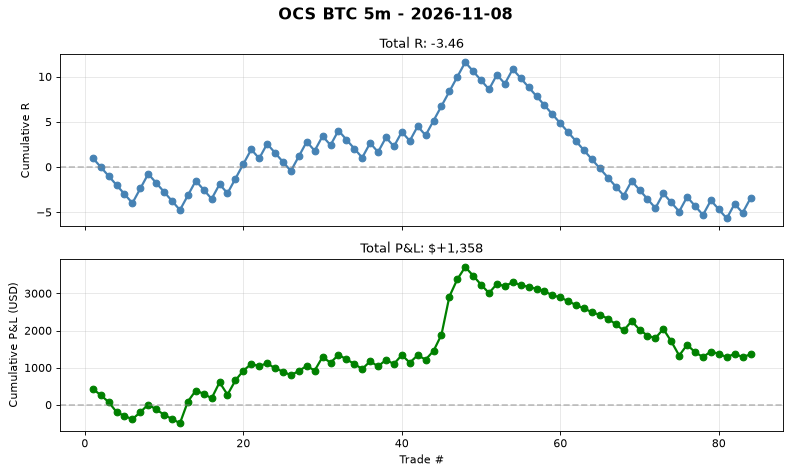
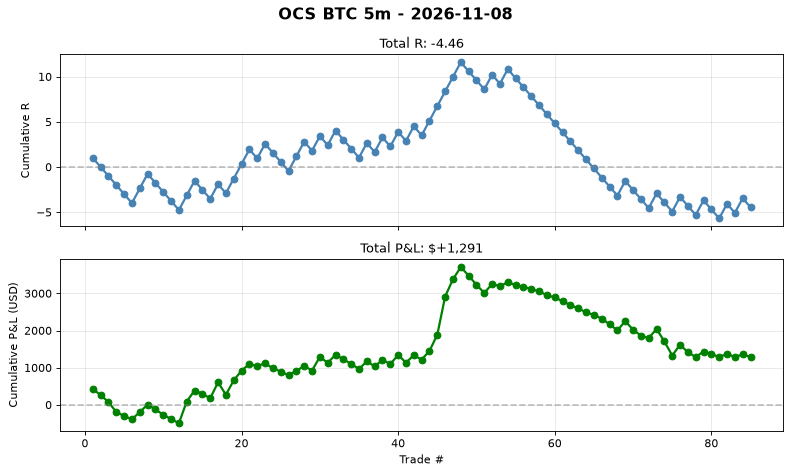
auto(ocs-btc): signal log 2026-11-08T04:34 trades=85

diff --git a/automation/reports/ocs_btc_5m/daily/2026-11-08.md b/automation/reports/ocs_btc_5m/daily/2026-11-08.md
@@ -1,5 +1,37 @@
 # OCS BTC 5m - 2026-11-08
 
-**No trades today.**
+## Summary
+- **Trades**: 1 (0W / 1L)
+- **Win Rate**: 0.0%
+- **Total R**: -1.00R
+- **Total P&L**: $-67
+- **Avg R**: -1.00R
+- **Profit Factor**: 0.92
 
-Cumulative stats: 84 trades | WR 36.9% | avg R -0.041
+## Exit Breakdown
+- T1 (+1.0R): 1
+- T2 (+1.618R): 30
+- T3 (+2.618R): 0
+- T4 (+3.618R): 0
+- T5 (+5.0R): 0
+- SL (-1.0R): 54
+
+## Best Trade
+- **LONG** at 75,778 -> SL 75,712
+- R = -1.00, P&L = $-67
+- Held for 3 bars
+
+## Worst Trade
+- **LONG** at 75,778 -> SL 75,712
+- R = -1.00, P&L = $-67
+- Held for 3 bars
+
+## Cumulative Stats (Lifetime)
+- Total trades: 85
+- WR: 36.5%
+- Avg R: -0.052
+- Total R: -4.46R
+- Profit Factor: 0.92
+
+## Chart
+See `daily/2026-11-08.png` for cumulative P&L curve.
